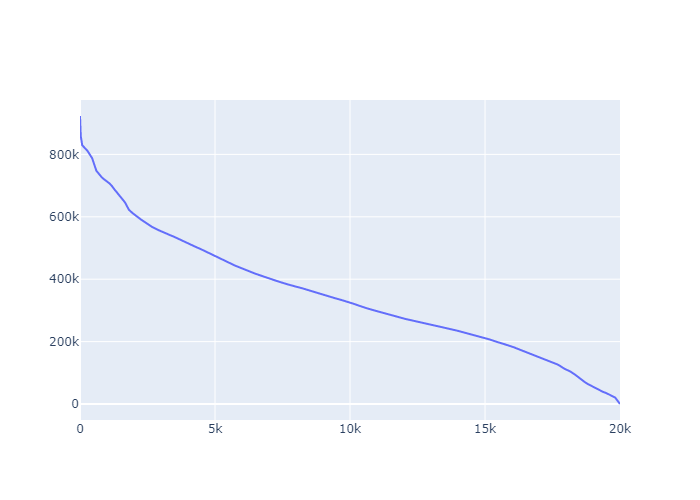
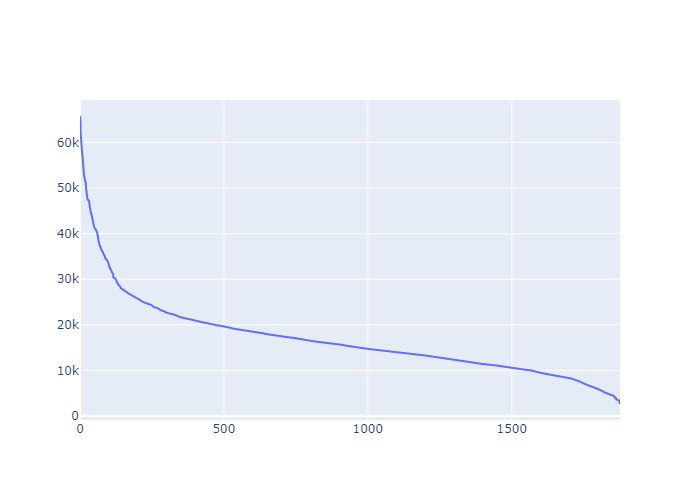
Added visuaization functionality and a demo plot of california

diff --git a/dbScan.py b/dbScan.py
@@ -7,13 +7,13 @@ Created on Mon Apr  6 09:43:11 2020
 
 import pandas as pd
 import numpy as np
-#import plotly.graph_objects as go
+import plotly.graph_objects as go
 import json
 import math
 
 point = pd.read_csv("G:/dbscan/ca.csv",delimiter=":", header = None, names = ["long", "lat", "place"])
 
-sample = point.sample(frac = 0.3, random_state = 1)
+sample = point.sample(frac = 0.03, random_state = 1)
 
 #determining Eps and MinPts
 
@@ -30,28 +30,29 @@ def kdist(sample,MinPts): #returns kth nearest neighbour of the point
     sample['k-dist'] = np.nan
     for i in range(len(sample)):
         df = sample[['long','lat']]
-        df['dist'] = dist(df['long'].iloc[0], df['long'], df['lat'].iloc[0], df['lat'])
+        df['dist'] = dist(df['long'].iloc[i], df['long'], df['lat'].iloc[i], df['lat'])
         sample['k-long'].iloc[i] = df.sort_values(by = 'dist').iloc[5]['long']
         sample['k-lat'].iloc[i] = df.sort_values(by = 'dist').iloc[5]['lat']
         sample['k-dist'].iloc[i] = df.sort_values(by = 'dist').iloc[5]['dist']
+        print(i)
     return
 
 #sample["k-dist"] = dist(sample['long'], sample['k-long'], sample['lat'], sample['k-lat'])
 
-#kdist(sample, MinPts)
+kdist(sample, MinPts)
 
-#y = sample.sort_values(by = 'k-dist', ascending = False)['k-dist']
+y = sample.sort_values(by = 'k-dist', ascending = False)['k-dist']
 
-#fig = go.Figure(
-#        data = [go.Scatter(y=y, text = list(y.index))]
-#        )
+fig = go.Figure(
+        data = [go.Scatter(y=y, text = list(y.index))]
+        )
 
-#fig.show(renderer = "browser")
+fig.show(renderer = "browser")
 
-#fig.write_image("G:/dbscan/k-dist.png")
+fig.write_image("G:/dbscan/k-dist.png")
 #by inspection
-#Eps = sample['k-dist'].iloc[5746]
-Eps = 3173.0516856805216 #found on previous run of k-dist
+Eps = sample['k-dist'].loc[55541]
+#Eps = 3173.0516856805216 #found on previous run of k-dist
 sample['clId'] = np.nan
 
 # Naive implementation of algorithms as discussed in Section 4.1 of the paper
@@ -74,6 +75,7 @@ def dbscan(sample, Eps, MinPts): # main function for dbscan
         if math.isnan(sample['clId'].iloc[i]):
             if expandCluster(sample, i, ClusterId, Eps, MinPts):
                 ClusterId+=1
+        print(i)
     
                 
                 
@@ -111,8 +113,22 @@ output['data'] = sample
 with open('data.txt', 'w') as outfile:
     json.dump(output, outfile)
     
-    
-        
-        
-    
+x = sample['long']
+y = sample['lat']
+clid = sample['clId']
+
+traces = []
+for i in list(set(sample['clId'])):
+    x = sample[sample['clId'] == i]['long']
+    y = sample[sample['clId'] == i]['lat']
+    if (i == -1):
+        traces.append(go.Scatter(x = x, y = y, name = i, mode = 'markers'))
+    else:
+        traces.append(go.Scatter(x = x, y = y, name = i))
+
+figure = go.Figure(data = traces)
+
+figure.show(renderer = "browser")
+      
+figure.write_image("G:/dbscan/cluster.png")
 
